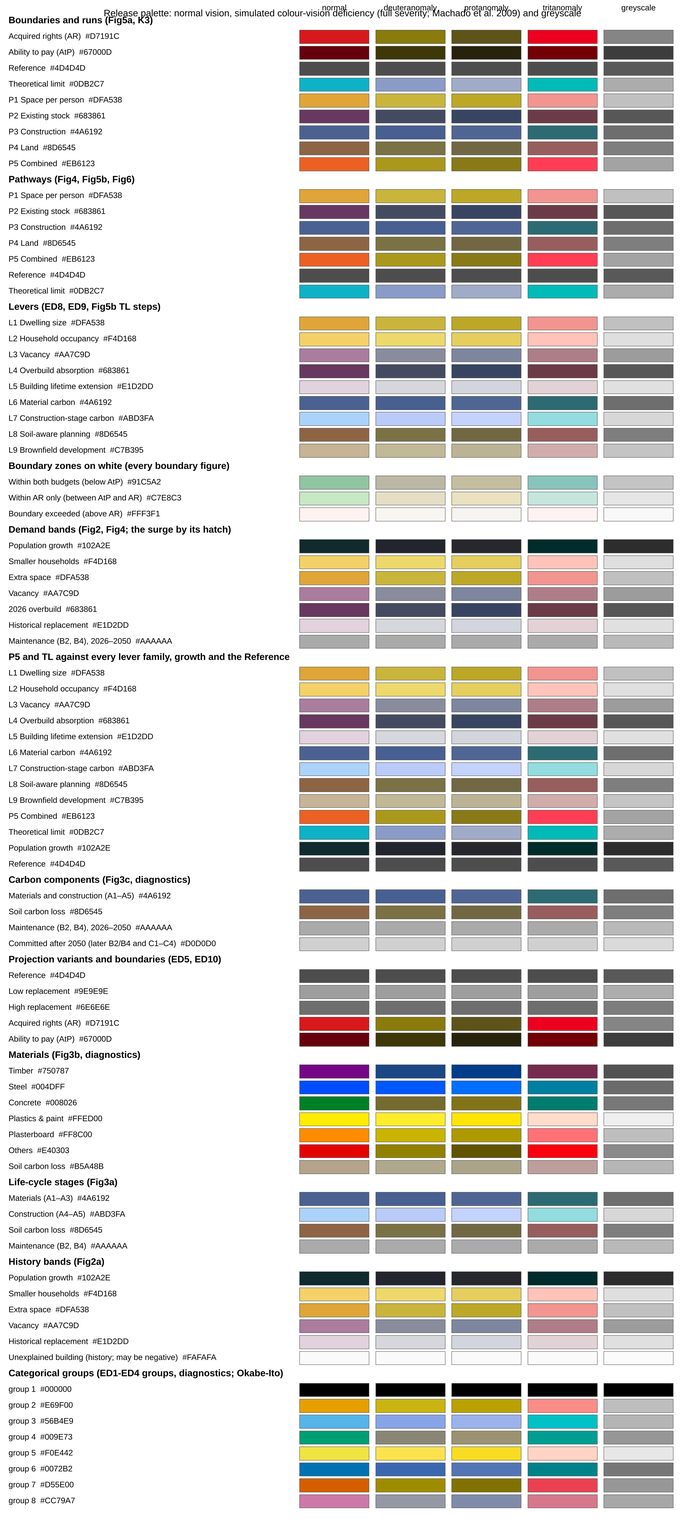
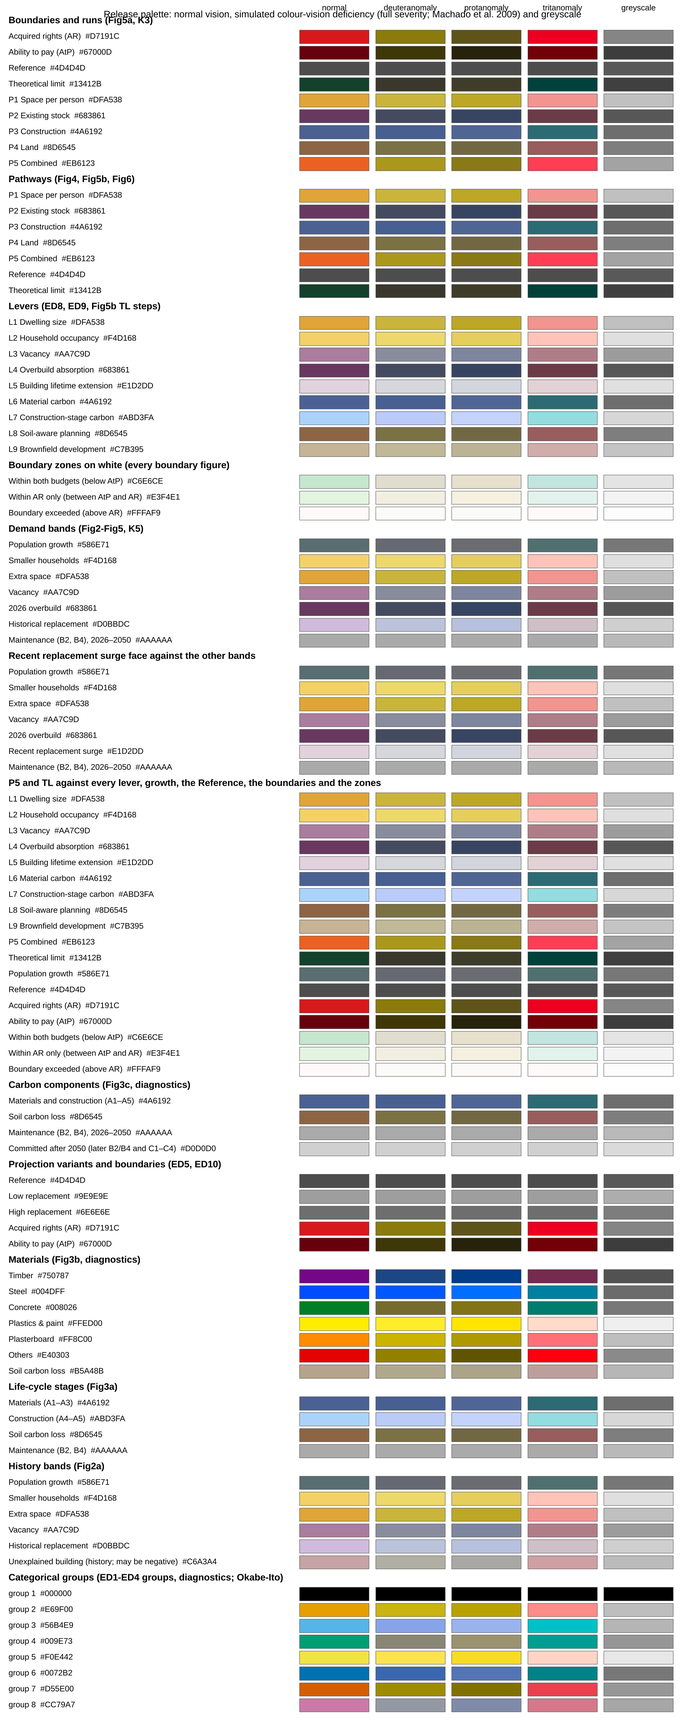
v2.1.2 §1 global style: lighter growth, darker replacement, AtP dotted, lighter zones, TL forest green
Population growth the same deep green-blue hue, clearly lighter (J' 47, was
11); Historical replacement a darker, slightly bluer lilac than the surge
(which keeps the L5 face and its light hatch); Unexplained building a faded
reddish face, no hatch. AtP dotted. Zones much lighter (on white J' 90 / 95
/ 99), lightness order kept under every simulated deficiency. TL a deep
forest green (J' 25: a mid green at AR's lightness merges with AR under
deuteranomaly), >= 10 from AR, AtP, Reference, P5, every lever, growth
and the zones; TL marker a larger circle. Colour-vision check: every group
>= 10 except the boundary zones (pale by design, order tested).
tests/data_snapshot_model_v2_1_1.json freezes outputs/data (88 files).

Claude-Session: https://claude.ai/code/session_01NA1ucL7dNsMwx6AQKd8NQE

diff --git a/tools/palette_check.py b/tools/palette_check.py
@@ -40,14 +40,17 @@ def groups():
                                          Reference=S.REFERENCE, **{N.TL['TL']: S.TL}),
         'Levers (ED8, ED9, Fig5b TL steps)': {f'{k} {N.LEVERS[k]}': c for k, c in S.LEVER.items()},
         'Boundary zones on white (every boundary figure)': {z['label']: zone_on_white(z) for z in S.ZONE.values()},
-        # the Recent replacement surge is the Historical replacement face with a fine light hatch (BAND_HATCHCOLOR),
-        # so it is told apart by its hatch, not its colour, and is left out of the distance check
-        'Demand bands (Fig2, Fig4; the surge by its hatch)': {N.BANDS[b]: S.BAND[b][0] for b in S.BAND_ORDER
-                                                              if b != 'redevelopment'},
-        'P5 and TL against every lever family, growth and the Reference': dict(
+        # MODEL v2.1.2: the Recent replacement surge (L5 face, fine light hatch) and Historical replacement (a darker,
+        # slightly bluer lilac) differ in lightness, hue and hatch; the surge face is checked against every other
+        # band in the next group, the replacement-surge pair is reported in the text
+        'Demand bands (Fig2-Fig5, K5)': {N.BANDS[b]: S.BAND[b][0] for b in S.BAND_ORDER if b != 'redevelopment'},
+        'Recent replacement surge face against the other bands': {N.BANDS[b]: S.BAND[b][0] for b in S.BAND_ORDER
+                                                                   if b != 'replacement'},
+        'P5 and TL against every lever, growth, the Reference, the boundaries and the zones': dict(
             {f'{k} {N.LEVERS[k]}': c for k, c in S.LEVER.items()},
             **{f"P5 {N.PATHWAYS['P5']}": S.PATHWAY['P5'], N.TL['TL']: S.TL, N.BANDS['growth']: S.GROWTH,
-               'Reference': S.REFERENCE}),
+               'Reference': S.REFERENCE, 'Acquired rights (AR)': S.AR, 'Ability to pay (AtP)': S.ATP},
+            **{z['label']: zone_on_white(z) for z in S.ZONE.values()}),
         'Carbon components (Fig3c, diagnostics)': {N.COMPONENTS[c]: S.COMPONENT[c][0] for c in S.COMPONENT},
         'Projection variants and boundaries (ED5, ED10)': dict({S.SCENARIO[k]['label']: S.SCENARIO[k]['color']
                                                              for k in S.SCENARIO},
@@ -60,6 +63,15 @@ def groups():
                                       **{N.UNEXPLAINED: S.UNEXPLAINED[0]}),
         'Categorical groups (ED1-ED4 groups, diagnostics; Okabe-Ito)': {f'group {i + 1}': c for i, c in enumerate(S.QUALITATIVE)},
     }
+
+
+def focus():
+    """Groups checked only for the pairs that involve the listed colours (the others never share a figure as
+    adjacent fills; their own groups check them)."""
+    import naming as N
+    return {'Recent replacement surge face against the other bands': [N.BANDS['redevelopment']],
+            'P5 and TL against every lever, growth, the Reference, the boundaries and the zones':
+                [f"P5 {N.PATHWAYS['P5']}", N.TL['TL']]}
 
 
 def zone_on_white(z):
@@ -84,12 +96,12 @@ def jab(h, vision):
     return cspace_convert(simulate(h, vision), 'sRGB1', 'CAM02-UCS')
 
 
-def min_distance(cols):
-    """{vision: (distance, label a, label b)} of the closest pair."""
+def min_distance(cols, only=None):
+    """{vision: (distance, label a, label b)} of the closest pair (with only: the pairs involving those labels)."""
     out = {}
+    pairs = [(a, b) for a, b in itertools.combinations(cols, 2) if not only or a in only or b in only]
     for v in VISION:
-        out[v] = min((float(np.linalg.norm(jab(cols[a], v) - jab(cols[b], v))), a, b)
-                     for a, b in itertools.combinations(cols, 2))
+        out[v] = min((float(np.linalg.norm(jab(cols[a], v) - jab(cols[b], v))), a, b) for a, b in pairs)
     return out
 
 
@@ -147,11 +159,16 @@ def main():
          f"rose-lilac {S.LEVER['L3']}, L5 lighter still {S.LEVER['L5']}), P3 Construction blues (L6 dark "
          f"{S.LEVER['L6']}, L7 light {S.LEVER['L7']}), P4 Land browns (L8 dark brown {S.LEVER['L8']}, L9 light tan "
          f"{S.LEVER['L9']}); P1-P4 take the colour of their first (darkest) lever; P5 Combined vermilion "
-         f"({S.PATHWAY['P5']}) and TL cyan ({S.TL}), each outside every family and apart from Population growth.",
+         f"({S.PATHWAY['P5']}) and TL a deep forest green ({S.TL}; MODEL v2.1.2, far darker than the zones; a larger "
+         'circle on point plots), each outside every family and apart from Population growth.',
          '* **Demand bands** are coloured by the lever that targets them (Smaller households L2, Extra space L1, '
-         'Vacancy L3, 2026 overbuild L4, Historical replacement L5; the Recent replacement surge the L5 face with a '
-         'fine light hatch). The only untargeted band, Population growth, is a solid near-black deep green-blue '
-         f"({S.GROWTH}). Maintenance (B2, B4) is neutral grey ({S.BAND['maintenance'][0]}); committed emissions "
+         f"Vacancy L3, 2026 overbuild L4; Historical replacement a darker, slightly bluer lilac ({S.REPLACEMENT}) than "
+         f"the Recent replacement surge, which keeps the L5 face ({S.LEVER['L5']}) with a fine light hatch; both targeted "
+         'by L5). The only untargeted band, Population growth, is a solid deep green-blue, clearly lighter since MODEL '
+         f"v2.1.2 ({S.GROWTH}). Unexplained building of the history: a faded reddish face, no hatch "
+         f"({S.UNEXPLAINED[0]}). Negative band values are drawn as a downward segment from the top of the positive "
+         'stack, so a bar ends at its net total, marked by a short tick. '
+         f"Maintenance (B2, B4) is neutral grey ({S.BAND['maintenance'][0]}); committed emissions "
          f"after 2050 a lighter grey, hatched ({S.COMPONENT['committed'][0]}). Carbon stages: A1-A3 the L6 dark "
          'blue, A4-A5 the L7 light blue, soil carbon loss the L8 brown.',
          f"* **Reference** dark grey ({S.REFERENCE}); Low and High replacement mid greys with dashed and dotted lines.",
@@ -159,8 +176,8 @@ def main():
          f"{S.LW_SEAM:g} pt (no white borders, no anti-aliasing gaps); a hatch is drawn in a thin hatch colour only "
          f"(default {S.HATCH_COLOUR}; the surge band {S.HATCH_LIGHT}). Legend handles keep a thin grey outline.",
          f"* **Boundaries** (every planetary-boundary figure, one implementation in style.py): acquired rights (AR) "
-         f"thin red line ({S.AR}), ability to pay (AtP) thin dark-red dashed line ({S.ATP}); zones below AtP darker "
-         f"green ({S.ZONE['within_both']['color']}, alpha {S.ZONE['within_both']['alpha']}), between AtP and AR light "
+         f"thin red line ({S.AR}), ability to pay (AtP) thin dark-red dotted line ({S.ATP}); zones (MODEL v2.1.2: much lighter) below AtP "
+         f"faded green ({S.ZONE['within_both']['color']}, alpha {S.ZONE['within_both']['alpha']}), between AtP and AR light "
          f"green ({S.ZONE['within_ar']['color']}, alpha {S.ZONE['within_ar']['alpha']}) and above AR light red "
          f"({S.ZONE['exceeded']['color']}, alpha {S.ZONE['exceeded']['alpha']}, \"boundary exceeded\"), on annual, "
          'cumulative and level-of-exceedance axes alike. The two principles are never averaged.',
@@ -188,8 +205,9 @@ def main():
           f'"clearly distinguishable" adjacent fills: {THRESHOLD:g} (stated convention).', '',
           '| group | ' + ' | '.join(VISION) + ' | passes |', '|---|' + '---|' * (len(VISION) + 1)]
     fails = []
+    F = focus()
     for gname, g in G.items():
-        d = min_distance(g)
+        d = min_distance(g, F.get(gname))
         ok = all(v[0] >= THRESHOLD for v in d.values())
         if not ok:
             fails.append(gname)
@@ -201,6 +219,11 @@ def main():
               'red under every simulated deficiency), so their order survives without hue; any other group below the '
               'threshold is labelled directly in every figure (text on or beside each layer) or carries a hatch, so '
               'the reading never depends on colour alone.']
+    rs = min_distance({'Historical replacement': S.REPLACEMENT, 'Recent replacement surge': S.LEVER['L5']})
+    L += ['', 'Historical replacement against the Recent replacement surge face: '
+          + ', '.join(f'{v} {rs[v][0]:.1f}' for v in VISION)
+          + ' (below the threshold by design: told apart by lightness, a slightly different hue and the surge\'s '
+          'fine light hatch, and labelled in every figure).']
     Jz = {k: [lightness(zone_on_white(z))] + [float(jab(zone_on_white(z), v)[0]) for v in VISION[1:]]
           for k, z in S.ZONE.items()}
     order = ('within_both', 'within_ar', 'exceeded')

diff --git a/style.py b/style.py
@@ -80,11 +80,14 @@ MUTED = '#6E6E6E'                               # secondary text, leader lines
 AR = '#D7191C'
 ATP = '#67000D'
 LW_BOUNDARY = 0.9
+# MODEL v2.1.2: AtP dotted; the zones much lighter (on white: within both J' 90, within AR only 95, exceeded 99;
+# the lightness order still holds under every simulated deficiency; tools/palette_check.py)
+ATP_LS = (0, (1, 1.3))                          # dotted ·····
 BOUNDARY = {'AR': dict(color=AR, ls='-', lw=LW_BOUNDARY, label='Acquired rights (AR)'),
-            'AtP': dict(color=ATP, ls='--', lw=LW_BOUNDARY, label='Ability to pay (AtP)')}
-ZONE = {'within_both': dict(color='#238B45', alpha=0.50, label='Within both budgets (below AtP)'),
-        'within_ar': dict(color='#A1D99B', alpha=0.60, label='Within AR only (between AtP and AR)'),
-        'exceeded': dict(color='#FB6A4A', alpha=0.08, label='Boundary exceeded (above AR)')}
+            'AtP': dict(color=ATP, ls=ATP_LS, lw=LW_BOUNDARY, label='Ability to pay (AtP)')}
+ZONE = {'within_both': dict(color='#41AB5D', alpha=0.30, label='Within both budgets (below AtP)'),
+        'within_ar': dict(color='#A1D99B', alpha=0.30, label='Within AR only (between AtP and AR)'),
+        'exceeded': dict(color='#FB6A4A', alpha=0.035, label='Boundary exceeded (above AR)')}
 ZONE_GID = 'boundary_zone'
 # two accent colours for lines that are not boundaries (household formation, floor area in the diagnostics): the
 # boundary pair of model-v2.0.0, kept so those diagnostics are unchanged
@@ -93,7 +96,11 @@ ACCENT_BLUE = '#1F5FA8'
 
 # runs
 REFERENCE = '#4D4D4D'
-TL = '#0DB2C7'          # MODEL v2.1.1: a clear cyan, outside every family, apart from Population growth and the zones
+# MODEL v2.1.2: TL a deep forest green, far darker than the zones; at CAM02-UCS J' 25 it is >= 10 from AR, AtP,
+# the Reference, P5, every lever, Population growth and the zones under every simulated deficiency (a mid green
+# at the lightness of AR merges with it under deuteranomaly / protanomaly)
+TL = '#13412B'
+TL_MARKER = dict(marker='o', ms=8)             # TL on point plots: a larger circle (no star)
 SCENARIO = {'REF': dict(color=REFERENCE, ls='-', lw=LW_BOLD, label='Reference'),
             'LOW': dict(color='#9E9E9E', ls='--', lw=LW, label='Low replacement'),
             'HIGH': dict(color='#6E6E6E', ls=':', lw=LW, label='High replacement')}
@@ -116,17 +123,19 @@ SETTING = {'moderate': dict(ls='-', marker_fill='none', label='Moderate'),
            'ambitious': dict(ls='--', marker_fill='full', label='Ambitious')}
 
 # demand bands, bottom to top: (colour, hatch), coloured by the lever that targets them; labels in naming.BANDS.
-# Population growth (untargeted) near-black with a deep green-blue hue, solid; the recent replacement surge the L5
-# shade with a fine, light hatch (both replacement bands are targeted by L5)
+# Population growth (untargeted) the deep green-blue hue, solid, clearly lighter since MODEL v2.1.2 (J' 47, was 11);
+# Historical replacement a darker lilac with a slightly bluer hue (MODEL v2.1.2) than the Recent replacement surge,
+# which keeps the L5 face with a fine, light hatch (both replacement bands are targeted by L5)
 UNTARGETED_HATCH = None
-GROWTH = '#102A2E'
+GROWTH = '#586E71'
+REPLACEMENT = '#D0BBDC'
 HATCH_LIGHT = '#FFFFFF'                 # the fine hatch of the surge band: drawn in a light colour on its light face
 BAND = {'growth': (GROWTH, None),
         'smaller_households': (LEVER['L2'], None),
         'extra_space': (LEVER['L1'], None),
         'vacancy': (LEVER['L3'], None),
         'overbuild_2026': (LEVER['L4'], None),
-        'replacement': (LEVER['L5'], None),
+        'replacement': (REPLACEMENT, None),
         'redevelopment': (LEVER['L5'], '\\\\\\\\'),     # fine hatch, drawn light (BAND_HATCHCOLOR)
         'maintenance': ('#AAAAAA', None)}      # neutral (MODEL v2.1.1)
 BAND_ORDER = list(BAND)
@@ -143,8 +152,9 @@ COMPONENT = {'materials_construction': (LEVER['L6'], None),     # A1-A3: P3 dark
 STAGE = {'a1a3': COMPONENT['materials_construction'], 'a4a5': (LEVER['L7'], None), 'soil': COMPONENT['soil'],
          'maintenance': COMPONENT['maintenance']}
 
-# unexplained building of the history (Fig2a, D05c): neutral, hatched (face, hatch, hatch colour); may be negative
-UNEXPLAINED = ('#FAFAFA', '////', '#8C8C8C')
+# unexplained building of the history (Fig2, D05c, K1): a faded reddish face, no hatch (MODEL v2.1.2; face, hatch,
+# hatch colour); may be negative
+UNEXPLAINED = ('#C6A3A4', None, None)
 # the untargeted band (Fig4): the population-growth grey, hatched
 UNTARGETED_GROUP = (BAND['growth'][0], UNTARGETED_HATCH)      # solid since MODEL v2.1.1
 

diff --git a/tests/test_palette.py b/tests/test_palette.py
@@ -29,7 +29,7 @@ ZONES = 'Boundary zones on white (every boundary figure)'
 @pytest.mark.parametrize('group', [g for g in PC.groups() if g != ZONES])
 def test_every_group_passes_the_cvd_check(group):
     cols = PC.groups()[group]
-    d = PC.min_distance(cols)
+    d = PC.min_distance(cols, PC.focus().get(group))
     low = {v: x for v, x in d.items() if x[0] < PC.THRESHOLD}
     assert not low, (group, low)
 
@@ -52,8 +52,16 @@ def test_family_tone_order():
 
 
 def test_band_semantics():
+    from colorspacious import cspace_convert
     assert S.BAND['growth'] == (S.GROWTH, None)
-    assert S.BAND['redevelopment'][0] == S.BAND['replacement'][0] and S.BAND['redevelopment'][1]
+    # MODEL v2.1.2: Historical replacement darker than the surge face and of a slightly different hue; surge hatched
+    assert S.BAND['redevelopment'][0] == S.LEVER['L5'] and S.BAND['redevelopment'][1]
+    assert S.BAND['replacement'][0] == S.REPLACEMENT and PC.lightness(S.REPLACEMENT) < PC.lightness(S.LEVER['L5'])
+    h = lambda c: cspace_convert(PC._rgb(c), 'sRGB1', 'JCh')[2]
+    assert 5 < abs(h(S.REPLACEMENT) - h(S.LEVER['L5'])) < 40
+    # lighter, same hue as model-v2.1.1 (210.7 deg; 3 deg allows the 8-bit rounding of a low-chroma colour)
+    assert PC.lightness(S.GROWTH) > 40 and abs(h(S.GROWTH) - 210.7) < 3
+    assert S.UNEXPLAINED[1] is None
     assert S.BAND_HATCHCOLOR['redevelopment'] == S.HATCH_LIGHT
     assert S.BAND['overbuild_2026'][0] == S.LEVER['L4'] and S.BAND['vacancy'][0] == S.LEVER['L3']
 
@@ -61,7 +69,18 @@ def test_band_semantics():
 def test_p5_and_tl_outside_every_family():
     fam = set(S.LEVER.values()) | {S.GROWTH, S.REFERENCE}
     assert S.PATHWAY['P5'] not in fam and S.TL not in fam and S.TL != S.PATHWAY['P5']
-    assert PC.lightness(S.TL) > 30, 'TL must not be black'
+    from colorspacious import cspace_convert
+    J, C, hue = cspace_convert(PC._rgb(S.TL), 'sRGB1', 'JCh')
+    assert 125 < hue < 165 and C > 20, 'TL: a forest green'
+    zones = [PC.lightness(PC.zone_on_white(z)) for z in S.ZONE.values()]
+    assert PC.lightness(S.TL) < min(zones) - 40, 'TL clearly darker than the boundary zones'
+    assert S.TL_MARKER['marker'] == 'o'
+
+
+def test_atp_dotted_and_zones_light():
+    assert S.BOUNDARY['AtP']['ls'] == S.ATP_LS and S.ATP_LS[1][0] <= 1.0      # dots, not dashes
+    on = {k: PC.lightness(PC.zone_on_white(z)) for k, z in S.ZONE.items()}
+    assert on['within_both'] < on['within_ar'] < on['exceeded'] and on['within_both'] > 85
 
 
 def test_fill_is_seamless():

diff --git a/docs/PALETTE.md b/docs/PALETTE.md
@@ -5,11 +5,11 @@ One palette for every figure; `style.py` is the only place colours are defined, 
 ## Rules
 
 * **Source** (MODEL v2.1.1): the palette is inspired by Francis Bacon, *Head VI* (1949): golds, mauves, deep blues and browns on a near-black ground. The hue families are fixed by that choice; lightness and chroma were set by maximising the minimum CAM02-UCS distance of every group below under every simulated deficiency, and where a group failed only the lightness of one colour was moved within its family.
-* **Four pathway families, lever shades**: P1 Space per person golds / ochres (L1 #DFA538, L2 #F4D168), P2 Existing stock mauves (L4 deep mauve #683861, L3 rose-lilac #AA7C9D, L5 lighter still #E1D2DD), P3 Construction blues (L6 dark #4A6192, L7 light #ABD3FA), P4 Land browns (L8 dark brown #8D6545, L9 light tan #C7B395); P1-P4 take the colour of their first (darkest) lever; P5 Combined vermilion (#EB6123) and TL cyan (#0DB2C7), each outside every family and apart from Population growth.
-* **Demand bands** are coloured by the lever that targets them (Smaller households L2, Extra space L1, Vacancy L3, 2026 overbuild L4, Historical replacement L5; the Recent replacement surge the L5 face with a fine light hatch). The only untargeted band, Population growth, is a solid near-black deep green-blue (#102A2E). Maintenance (B2, B4) is neutral grey (#AAAAAA); committed emissions after 2050 a lighter grey, hatched (#D0D0D0). Carbon stages: A1-A3 the L6 dark blue, A4-A5 the L7 light blue, soil carbon loss the L8 brown.
+* **Four pathway families, lever shades**: P1 Space per person golds / ochres (L1 #DFA538, L2 #F4D168), P2 Existing stock mauves (L4 deep mauve #683861, L3 rose-lilac #AA7C9D, L5 lighter still #E1D2DD), P3 Construction blues (L6 dark #4A6192, L7 light #ABD3FA), P4 Land browns (L8 dark brown #8D6545, L9 light tan #C7B395); P1-P4 take the colour of their first (darkest) lever; P5 Combined vermilion (#EB6123) and TL a deep forest green (#13412B; MODEL v2.1.2, far darker than the zones; a larger circle on point plots), each outside every family and apart from Population growth.
+* **Demand bands** are coloured by the lever that targets them (Smaller households L2, Extra space L1, Vacancy L3, 2026 overbuild L4; Historical replacement a darker, slightly bluer lilac (#D0BBDC) than the Recent replacement surge, which keeps the L5 face (#E1D2DD) with a fine light hatch; both targeted by L5). The only untargeted band, Population growth, is a solid deep green-blue, clearly lighter since MODEL v2.1.2 (#586E71). Unexplained building of the history: a faded reddish face, no hatch (#C6A3A4). Negative band values are drawn as a downward segment from the top of the positive stack, so a bar ends at its net total, marked by a short tick. Maintenance (B2, B4) is neutral grey (#AAAAAA); committed emissions after 2050 a lighter grey, hatched (#D0D0D0). Carbon stages: A1-A3 the L6 dark blue, A4-A5 the L7 light blue, soil carbon loss the L8 brown.
 * **Reference** dark grey (#4D4D4D); Low and High replacement mid greys with dashed and dotted lines.
 * **Stacked bars and areas** are drawn seamless: each segment's edge is its own face colour at 0.3 pt (no white borders, no anti-aliasing gaps); a hatch is drawn in a thin hatch colour only (default #6E6E6E; the surge band #FFFFFF). Legend handles keep a thin grey outline.
-* **Boundaries** (every planetary-boundary figure, one implementation in style.py): acquired rights (AR) thin red line (#D7191C), ability to pay (AtP) thin dark-red dashed line (#67000D); zones below AtP darker green (#238B45, alpha 0.5), between AtP and AR light green (#A1D99B, alpha 0.6) and above AR light red (#FB6A4A, alpha 0.08, "boundary exceeded"), on annual, cumulative and level-of-exceedance axes alike. The two principles are never averaged.
+* **Boundaries** (every planetary-boundary figure, one implementation in style.py): acquired rights (AR) thin red line (#D7191C), ability to pay (AtP) thin dark-red dotted line (#67000D); zones (MODEL v2.1.2: much lighter) below AtP faded green (#41AB5D, alpha 0.3), between AtP and AR light green (#A1D99B, alpha 0.3) and above AR light red (#FB6A4A, alpha 0.035, "boundary exceeded"), on annual, cumulative and level-of-exceedance axes alike. The two principles are never averaged.
 * **Settings**: Moderate solid line or open marker; Ambitious dashed line or filled marker (bars: Moderate bars, Ambitious whiskers).
 * **Typeface**: Liberation Sans only (metric-compatible with Arial), bundled in `fonts/` under the SIL Open Font License 1.1, registered by style.py, so every machine renders the same glyphs.
 * **Sizes** (Nature Cities): width 89 mm (single column) or 183 mm (double column), page depth at most 247 mm; text 7 pt, legends and ticks 6 pt, never below 5 pt; data lines 1 pt, emphasised lines 1.5 pt, grid and edges 0.5 pt.
@@ -23,7 +23,7 @@ One palette for every figure; `style.py` is the only place colours are defined, 
 | Boundaries and runs (Fig5a, K3) | Acquired rights (AR) | `#D7191C` | 52 |
 | Boundaries and runs (Fig5a, K3) | Ability to pay (AtP) | `#67000D` | 24 |
 | Boundaries and runs (Fig5a, K3) | Reference | `#4D4D4D` | 35 |
-| Boundaries and runs (Fig5a, K3) | Theoretical limit | `#0DB2C7` | 68 |
+| Boundaries and runs (Fig5a, K3) | Theoretical limit | `#13412B` | 25 |
 | Boundaries and runs (Fig5a, K3) | P1 Space per person | `#DFA538` | 75 |
 | Boundaries and runs (Fig5a, K3) | P2 Existing stock | `#683861` | 34 |
 | Boundaries and runs (Fig5a, K3) | P3 Construction | `#4A6192` | 43 |
@@ -35,7 +35,7 @@ One palette for every figure; `style.py` is the only place colours are defined, 
 | Pathways (Fig4, Fig5b, Fig6) | P4 Land | `#8D6545` | 49 |
 | Pathways (Fig4, Fig5b, Fig6) | P5 Combined | `#EB6123` | 64 |
 | Pathways (Fig4, Fig5b, Fig6) | Reference | `#4D4D4D` | 35 |
-| Pathways (Fig4, Fig5b, Fig6) | Theoretical limit | `#0DB2C7` | 68 |
+| Pathways (Fig4, Fig5b, Fig6) | Theoretical limit | `#13412B` | 25 |
 | Levers (ED8, ED9, Fig5b TL steps) | L1 Dwelling size | `#DFA538` | 75 |
 | Levers (ED8, ED9, Fig5b TL steps) | L2 Household occupancy | `#F4D168` | 87 |
 | Levers (ED8, ED9, Fig5b TL steps) | L3 Vacancy | `#AA7C9D` | 61 |
@@ -45,29 +45,41 @@ One palette for every figure; `style.py` is the only place colours are defined, 
 | Levers (ED8, ED9, Fig5b TL steps) | L7 Construction-stage carbon | `#ABD3FA` | 84 |
 | Levers (ED8, ED9, Fig5b TL steps) | L8 Soil-aware planning | `#8D6545` | 49 |
 | Levers (ED8, ED9, Fig5b TL steps) | L9 Brownfield development | `#C7B395` | 77 |
-| Boundary zones on white (every boundary figure) | Within both budgets (below AtP) | `#91C5A2` | 77 |
-| Boundary zones on white (every boundary figure) | Within AR only (between AtP and AR) | `#C7E8C3` | 90 |
-| Boundary zones on white (every boundary figure) | Boundary exceeded (above AR) | `#FFF3F1` | 97 |
-| Demand bands (Fig2, Fig4; the surge by its hatch) | Population growth | `#102A2E` | 17 |
-| Demand bands (Fig2, Fig4; the surge by its hatch) | Smaller households | `#F4D168` | 87 |
-| Demand bands (Fig2, Fig4; the surge by its hatch) | Extra space | `#DFA538` | 75 |
-| Demand bands (Fig2, Fig4; the surge by its hatch) | Vacancy | `#AA7C9D` | 61 |
-| Demand bands (Fig2, Fig4; the surge by its hatch) | 2026 overbuild | `#683861` | 34 |
-| Demand bands (Fig2, Fig4; the surge by its hatch) | Historical replacement | `#E1D2DD` | 88 |
-| Demand bands (Fig2, Fig4; the surge by its hatch) | Maintenance (B2, B4), 2026–2050 | `#AAAAAA` | 72 |
-| P5 and TL against every lever family, growth and the Reference | L1 Dwelling size | `#DFA538` | 75 |
-| P5 and TL against every lever family, growth and the Reference | L2 Household occupancy | `#F4D168` | 87 |
-| P5 and TL against every lever family, growth and the Reference | L3 Vacancy | `#AA7C9D` | 61 |
-| P5 and TL against every lever family, growth and the Reference | L4 Overbuild absorption | `#683861` | 34 |
-| P5 and TL against every lever family, growth and the Reference | L5 Building lifetime extension | `#E1D2DD` | 88 |
-| P5 and TL against every lever family, growth and the Reference | L6 Material carbon | `#4A6192` | 43 |
-| P5 and TL against every lever family, growth and the Reference | L7 Construction-stage carbon | `#ABD3FA` | 84 |
-| P5 and TL against every lever family, growth and the Reference | L8 Soil-aware planning | `#8D6545` | 49 |
-| P5 and TL against every lever family, growth and the Reference | L9 Brownfield development | `#C7B395` | 77 |
-| P5 and TL against every lever family, growth and the Reference | P5 Combined | `#EB6123` | 64 |
-| P5 and TL against every lever family, growth and the Reference | Theoretical limit | `#0DB2C7` | 68 |
-| P5 and TL against every lever family, growth and the Reference | Population growth | `#102A2E` | 17 |
-| P5 and TL against every lever family, growth and the Reference | Reference | `#4D4D4D` | 35 |
+| Boundary zones on white (every boundary figure) | Within both budgets (below AtP) | `#C6E6CE` | 90 |
+| Boundary zones on white (every boundary figure) | Within AR only (between AtP and AR) | `#E3F4E1` | 95 |
+| Boundary zones on white (every boundary figure) | Boundary exceeded (above AR) | `#FFFAF9` | 99 |
+| Demand bands (Fig2-Fig5, K5) | Population growth | `#586E71` | 47 |
+| Demand bands (Fig2-Fig5, K5) | Smaller households | `#F4D168` | 87 |
+| Demand bands (Fig2-Fig5, K5) | Extra space | `#DFA538` | 75 |
+| Demand bands (Fig2-Fig5, K5) | Vacancy | `#AA7C9D` | 61 |
+| Demand bands (Fig2-Fig5, K5) | 2026 overbuild | `#683861` | 34 |
+| Demand bands (Fig2-Fig5, K5) | Historical replacement | `#D0BBDC` | 81 |
+| Demand bands (Fig2-Fig5, K5) | Maintenance (B2, B4), 2026–2050 | `#AAAAAA` | 72 |
+| Recent replacement surge face against the other bands | Population growth | `#586E71` | 47 |
+| Recent replacement surge face against the other bands | Smaller households | `#F4D168` | 87 |
+| Recent replacement surge face against the other bands | Extra space | `#DFA538` | 75 |
+| Recent replacement surge face against the other bands | Vacancy | `#AA7C9D` | 61 |
+| Recent replacement surge face against the other bands | 2026 overbuild | `#683861` | 34 |
+| Recent replacement surge face against the other bands | Recent replacement surge | `#E1D2DD` | 88 |
+| Recent replacement surge face against the other bands | Maintenance (B2, B4), 2026–2050 | `#AAAAAA` | 72 |
+| P5 and TL against every lever, growth, the Reference, the boundaries and the zones | L1 Dwelling size | `#DFA538` | 75 |
+| P5 and TL against every lever, growth, the Reference, the boundaries and the zones | L2 Household occupancy | `#F4D168` | 87 |
+| P5 and TL against every lever, growth, the Reference, the boundaries and the zones | L3 Vacancy | `#AA7C9D` | 61 |
+| P5 and TL against every lever, growth, the Reference, the boundaries and the zones | L4 Overbuild absorption | `#683861` | 34 |
+| P5 and TL against every lever, growth, the Reference, the boundaries and the zones | L5 Building lifetime extension | `#E1D2DD` | 88 |
+| P5 and TL against every lever, growth, the Reference, the boundaries and the zones | L6 Material carbon | `#4A6192` | 43 |
+| P5 and TL against every lever, growth, the Reference, the boundaries and the zones | L7 Construction-stage carbon | `#ABD3FA` | 84 |
+| P5 and TL against every lever, growth, the Reference, the boundaries and the zones | L8 Soil-aware planning | `#8D6545` | 49 |
+| P5 and TL against every lever, growth, the Reference, the boundaries and the zones | L9 Brownfield development | `#C7B395` | 77 |
+| P5 and TL against every lever, growth, the Reference, the boundaries and the zones | P5 Combined | `#EB6123` | 64 |
+| P5 and TL against every lever, growth, the Reference, the boundaries and the zones | Theoretical limit | `#13412B` | 25 |
+| P5 and TL against every lever, growth, the Reference, the boundaries and the zones | Population growth | `#586E71` | 47 |
+| P5 and TL against every lever, growth, the Reference, the boundaries and the zones | Reference | `#4D4D4D` | 35 |
+| P5 and TL against every lever, growth, the Reference, the boundaries and the zones | Acquired rights (AR) | `#D7191C` | 52 |
+| P5 and TL against every lever, growth, the Reference, the boundaries and the zones | Ability to pay (AtP) | `#67000D` | 24 |
+| P5 and TL against every lever, growth, the Reference, the boundaries and the zones | Within both budgets (below AtP) | `#C6E6CE` | 90 |
+| P5 and TL against every lever, growth, the Reference, the boundaries and the zones | Within AR only (between AtP and AR) | `#E3F4E1` | 95 |
+| P5 and TL against every lever, growth, the Reference, the boundaries and the zones | Boundary exceeded (above AR) | `#FFFAF9` | 99 |
 | Carbon components (Fig3c, diagnostics) | Materials and construction (A1–A5) | `#4A6192` | 43 |
 | Carbon components (Fig3c, diagnostics) | Soil carbon loss | `#8D6545` | 49 |
 | Carbon components (Fig3c, diagnostics) | Maintenance (B2, B4), 2026–2050 | `#AAAAAA` | 72 |
@@ -88,12 +100,12 @@ One palette for every figure; `style.py` is the only place colours are defined, 
 | Life-cycle stages (Fig3a) | Construction (A4–A5) | `#ABD3FA` | 84 |
 | Life-cycle stages (Fig3a) | Soil carbon loss | `#8D6545` | 49 |
 | Life-cycle stages (Fig3a) | Maintenance (B2, B4) | `#AAAAAA` | 72 |
-| History bands (Fig2a) | Population growth | `#102A2E` | 17 |
+| History bands (Fig2a) | Population growth | `#586E71` | 47 |
 | History bands (Fig2a) | Smaller households | `#F4D168` | 87 |
 | History bands (Fig2a) | Extra space | `#DFA538` | 75 |
 | History bands (Fig2a) | Vacancy | `#AA7C9D` | 61 |
-| History bands (Fig2a) | Historical replacement | `#E1D2DD` | 88 |
-| History bands (Fig2a) | Unexplained building (history; may be negative) | `#FAFAFA` | 99 |
+| History bands (Fig2a) | Historical replacement | `#D0BBDC` | 81 |
+| History bands (Fig2a) | Unexplained building (history; may be negative) | `#C6A3A4` | 74 |
 | Categorical groups (ED1-ED4 groups, diagnostics; Okabe-Ito) | group 1 | `#000000` | 0 |
 | Categorical groups (ED1-ED4 groups, diagnostics; Okabe-Ito) | group 2 | `#E69F00` | 75 |
 | Categorical groups (ED1-ED4 groups, diagnostics; Okabe-Ito) | group 3 | `#56B4E9` | 71 |
@@ -110,23 +122,26 @@ Minimum pairwise distance within each group (CAM02-UCS, Luo, Cui & Li 2006) afte
 | group | normal | deuteranomaly | protanomaly | tritanomaly | passes |
 |---|---|---|---|---|---|
 | Boundaries and runs (Fig5a, K3) | 16.3 (Acquired rights (AR) / P5 Combined) | 10.7 (P1 Space per person / P5 Combined) | 10.8 (Acquired rights (AR) / P4 Land) | 10.6 (Acquired rights (AR) / P5 Combined) | yes |
-| Pathways (Fig4, Fig5b, Fig6) | 19.4 (P2 Existing stock / Reference) | 10.7 (P1 Space per person / P5 Combined) | 13.7 (P4 Land / P5 Combined) | 16.0 (P2 Existing stock / P4 Land) | yes |
+| Pathways (Fig4, Fig5b, Fig6) | 17.4 (Reference / Theoretical limit) | 10.7 (P1 Space per person / P5 Combined) | 10.9 (Reference / Theoretical limit) | 16.0 (P2 Existing stock / P4 Land) | yes |
 | Levers (ED8, ED9, Fig5b TL steps) | 13.3 (L1 Dwelling size / L2 Household occupancy) | 12.3 (L1 Dwelling size / L2 Household occupancy) | 11.2 (L5 Building lifetime extension / L7 Construction-stage carbon) | 10.8 (L2 Household occupancy / L5 Building lifetime extension) | yes |
-| Boundary zones on white (every boundary figure) | 13.7 (Within both budgets (below AtP) / Within AR only (between AtP and AR)) | 9.5 (Within AR only (between AtP and AR) / Boundary exceeded (above AR)) | 10.2 (Within AR only (between AtP and AR) / Boundary exceeded (above AR)) | 14.2 (Within both budgets (below AtP) / Within AR only (between AtP and AR)) | no |
-| Demand bands (Fig2, Fig4; the surge by its hatch) | 13.3 (Smaller households / Extra space) | 12.3 (Smaller households / Extra space) | 14.1 (Smaller households / Extra space) | 10.8 (Smaller households / Historical replacement) | yes |
-| P5 and TL against every lever family, growth and the Reference | 13.3 (L1 Dwelling size / L2 Household occupancy) | 10.7 (L1 Dwelling size / P5 Combined) | 11.2 (L5 Building lifetime extension / L7 Construction-stage carbon) | 10.8 (L2 Household occupancy / L5 Building lifetime extension) | yes |
+| Boundary zones on white (every boundary figure) | 6.7 (Within both budgets (below AtP) / Within AR only (between AtP and AR)) | 5.2 (Within AR only (between AtP and AR) / Boundary exceeded (above AR)) | 5.0 (Within both budgets (below AtP) / Within AR only (between AtP and AR)) | 7.3 (Within both budgets (below AtP) / Within AR only (between AtP and AR)) | no |
+| Demand bands (Fig2-Fig5, K5) | 13.3 (Smaller households / Extra space) | 12.3 (Smaller households / Extra space) | 13.4 (Population growth / Vacancy) | 11.1 (Historical replacement / Maintenance (B2, B4), 2026–2050) | yes |
+| Recent replacement surge face against the other bands | 16.8 (Recent replacement surge / Maintenance (B2, B4), 2026–2050) | 15.7 (Recent replacement surge / Maintenance (B2, B4), 2026–2050) | 15.4 (Recent replacement surge / Maintenance (B2, B4), 2026–2050) | 10.8 (Smaller households / Recent replacement surge) | yes |
+| P5 and TL against every lever, growth, the Reference, the boundaries and the zones | 16.3 (P5 Combined / Acquired rights (AR)) | 10.7 (L1 Dwelling size / P5 Combined) | 10.9 (Theoretical limit / Reference) | 10.6 (P5 Combined / Acquired rights (AR)) | yes |
 | Carbon components (Fig3c, diagnostics) | 13.2 (Maintenance (B2, B4), 2026–2050 / Committed after 2050 (later B2/B4 and C1–C4)) | 13.2 (Maintenance (B2, B4), 2026–2050 / Committed after 2050 (later B2/B4 and C1–C4)) | 13.2 (Maintenance (B2, B4), 2026–2050 / Committed after 2050 (later B2/B4 and C1–C4)) | 13.2 (Maintenance (B2, B4), 2026–2050 / Committed after 2050 (later B2/B4 and C1–C4)) | yes |
 | Projection variants and boundaries (ED5, ED10) | 14.1 (Reference / High replacement) | 14.1 (Reference / High replacement) | 14.1 (Reference / High replacement) | 14.1 (Reference / High replacement) | yes |
 | Materials (Fig3b, diagnostics) | 25.9 (Plasterboard / Soil carbon loss) | 12.8 (Concrete / Others) | 13.0 (Concrete / Others) | 16.5 (Steel / Concrete) | yes |
 | Life-cycle stages (Fig3a) | 21.6 (Construction (A4–A5) / Maintenance (B2, B4)) | 20.7 (Construction (A4–A5) / Maintenance (B2, B4)) | 21.1 (Construction (A4–A5) / Maintenance (B2, B4)) | 21.2 (Construction (A4–A5) / Maintenance (B2, B4)) | yes |
-| History bands (Fig2a) | 12.8 (Historical replacement / Unexplained building (history; may be negative)) | 11.2 (Historical replacement / Unexplained building (history; may be negative)) | 12.2 (Historical replacement / Unexplained building (history; may be negative)) | 10.8 (Smaller households / Historical replacement) | yes |
+| History bands (Fig2a) | 13.3 (Smaller households / Extra space) | 12.3 (Smaller households / Extra space) | 13.4 (Population growth / Vacancy) | 10.6 (Extra space / Unexplained building (history; may be negative)) | yes |
 | Categorical groups (ED1-ED4 groups, diagnostics; Okabe-Ito) | 20.8 (group 2 / group 5) | 14.8 (group 4 / group 8) | 14.0 (group 6 / group 8) | 11.0 (group 2 / group 8) | yes |
 
 Groups below the threshold: Boundary zones on white (every boundary figure). Why each still reads: the boundary zones are pale by design (data drawn over them), always bounded by the AR and AtP lines and ordered strictly in lightness (darker green < light green < palest red under every simulated deficiency), so their order survives without hue; any other group below the threshold is labelled directly in every figure (text on or beside each layer) or carries a hatch, so the reading never depends on colour alone.
 
+Historical replacement against the Recent replacement surge face: normal 9.9, deuteranomaly 10.0, protanomaly 10.2, tritanomaly 6.7 (below the threshold by design: told apart by lightness, a slightly different hue and the surge's fine light hatch, and labelled in every figure).
+
 ## Boundary zones: lightness order
 
-J' of each zone on white (normal, deuteranomaly, protanomaly, tritanomaly): Within both budgets (below AtP) 76.9 / 77.0 / 79.1 / 76.7; Within AR only (between AtP and AR) 89.9 / 90.0 / 91.2 / 89.7; Boundary exceeded (above AR) 97.4 / 97.5 / 96.9 / 97.2. Strictly increasing under every vision type: yes.
+J' of each zone on white (normal, deuteranomaly, protanomaly, tritanomaly): Within both budgets (below AtP) 89.6 / 89.6 / 90.9 / 89.4; Within AR only (between AtP and AR) 95.1 / 95.2 / 95.8 / 95.0; Boundary exceeded (above AR) 98.9 / 99.0 / 98.7 / 98.8. Strictly increasing under every vision type: yes.
 
 ## Sequential ramp
 
